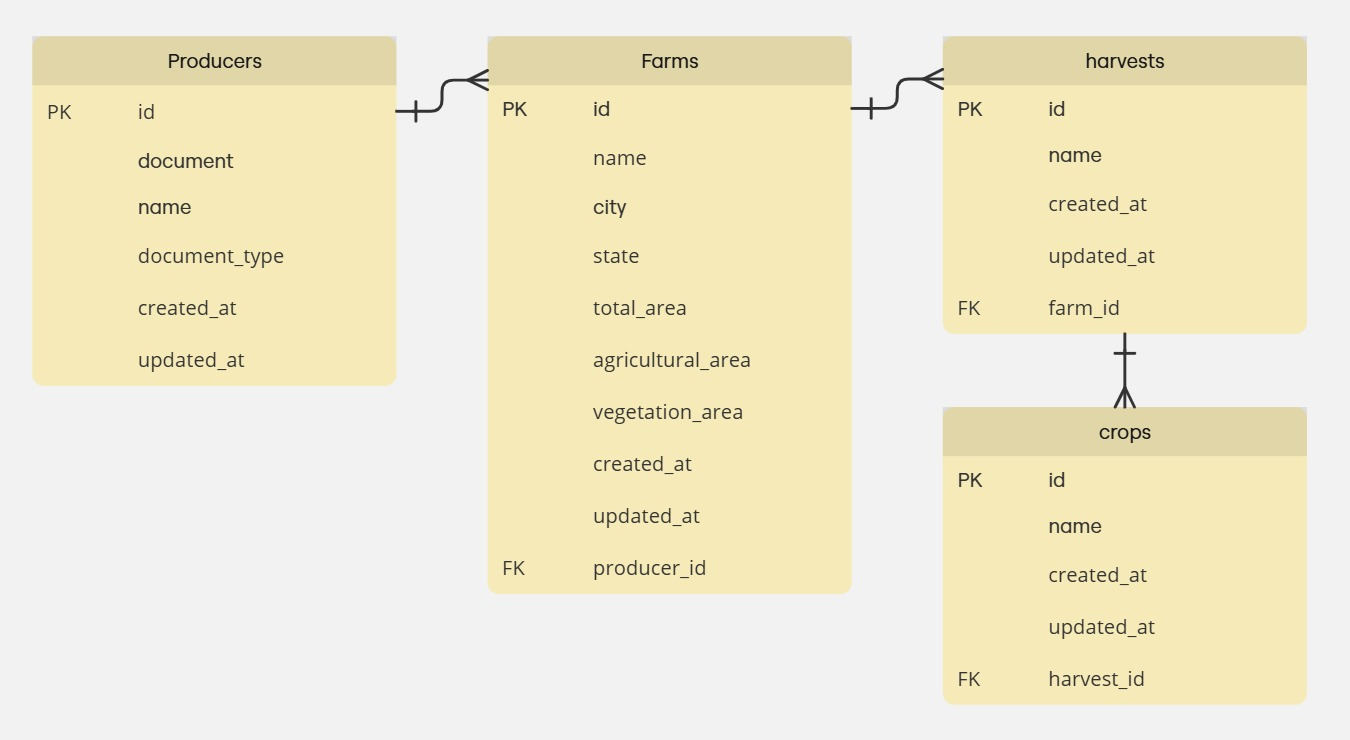
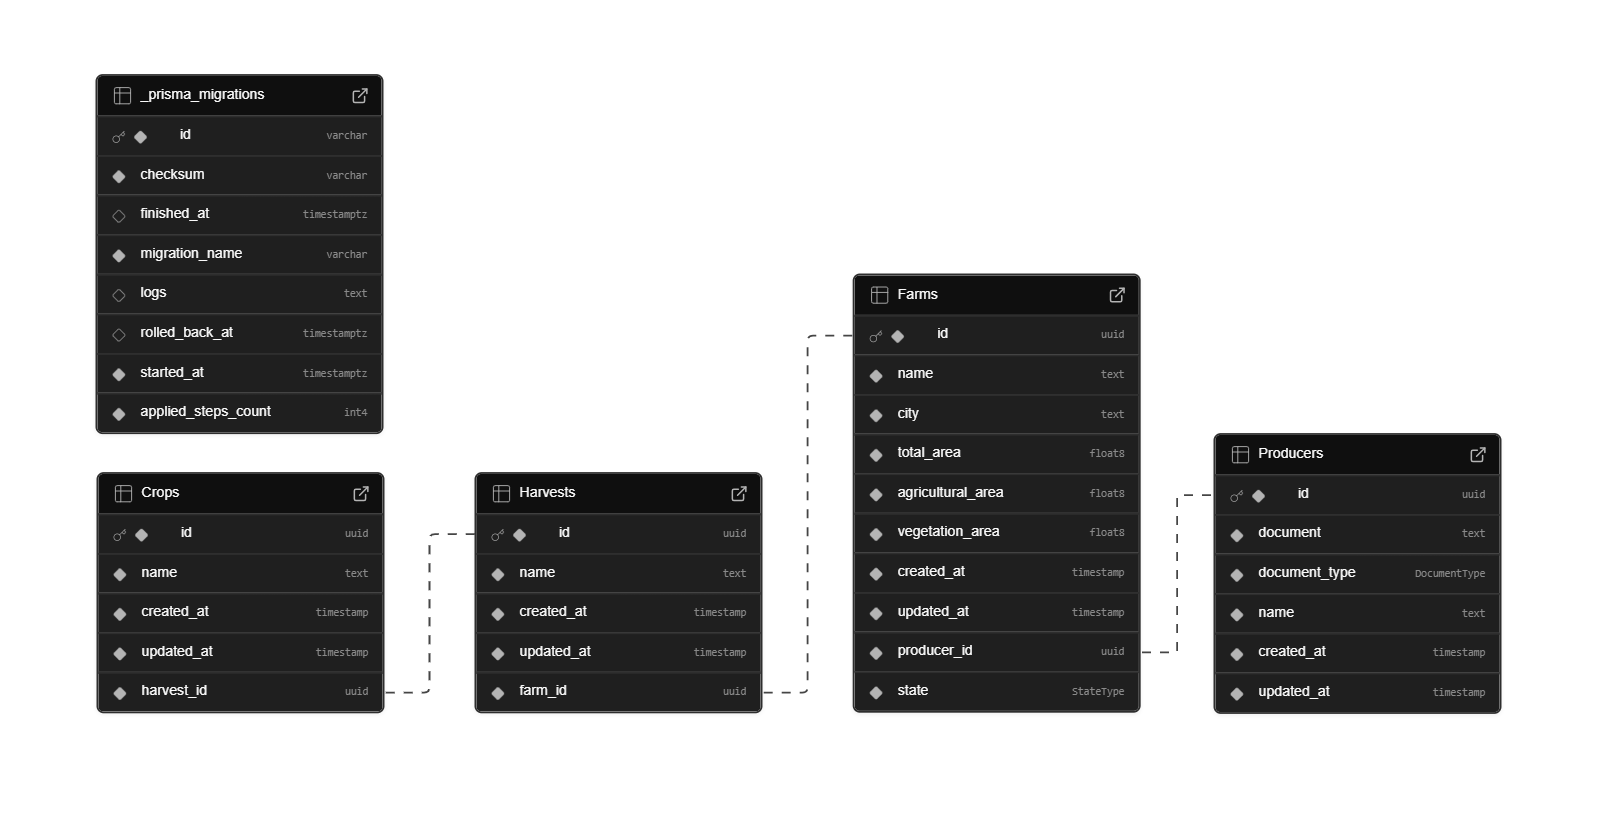
doc: add datatypes to readme

diff --git a/README.md b/README.md
@@ -40,10 +40,22 @@ Primeiro execute `npm install` na raiz do projeto, após isso execute `npm run t
 
 ### Configuração do Banco de Dados fora do ambiente Docker
 Para testar fora do ambiente do Docker um arquivo `.env` com as variáveis `DATABASE_URL` e `DIRECT_URL` deve ser criado.
-Durante a execução local, os dois valores podem ser idênticos. Porém, em outros ambientes (como por exemplo o Supabase) esses valores podem ser distintos.
+
+Durante a execução local os dois valores podem ser idênticos, porém, em outros ambientes (como por exemplo o Supabase) esses valores podem ser distintos.
+
 Opcionalmente a dependência de directUrl pode ser removida do schema.prisma.
 
 ## Database
 Diagrama ER simplificado, ilustrando a estrutura do banco de dados e seus principais relacionamentos.
 
 ![ERD](./docs/ERD.jpg)
+
+### Tipos de Dados
+Abaixo estão os tipos de dados utilizados no sistema para definir DocumentType e StateType.
+
+| **Tipo**         | **Valores**                            |
+|------------------|----------------------------------------|
+| **DocumentType** | CPF, CNPJ                              |
+| **StateType**    | AC, AL, AP, AM, BA, CE, DF, ES, GO, MA, MT, MS, MG, PA, PB, PR, PE, PI, RJ, RN, RS, RO, RR, SC, SP, SE, TO |
+
+Esses tipos são usados para garantir a integridade dos dados e facilitar o tratamento e validação das informações.
